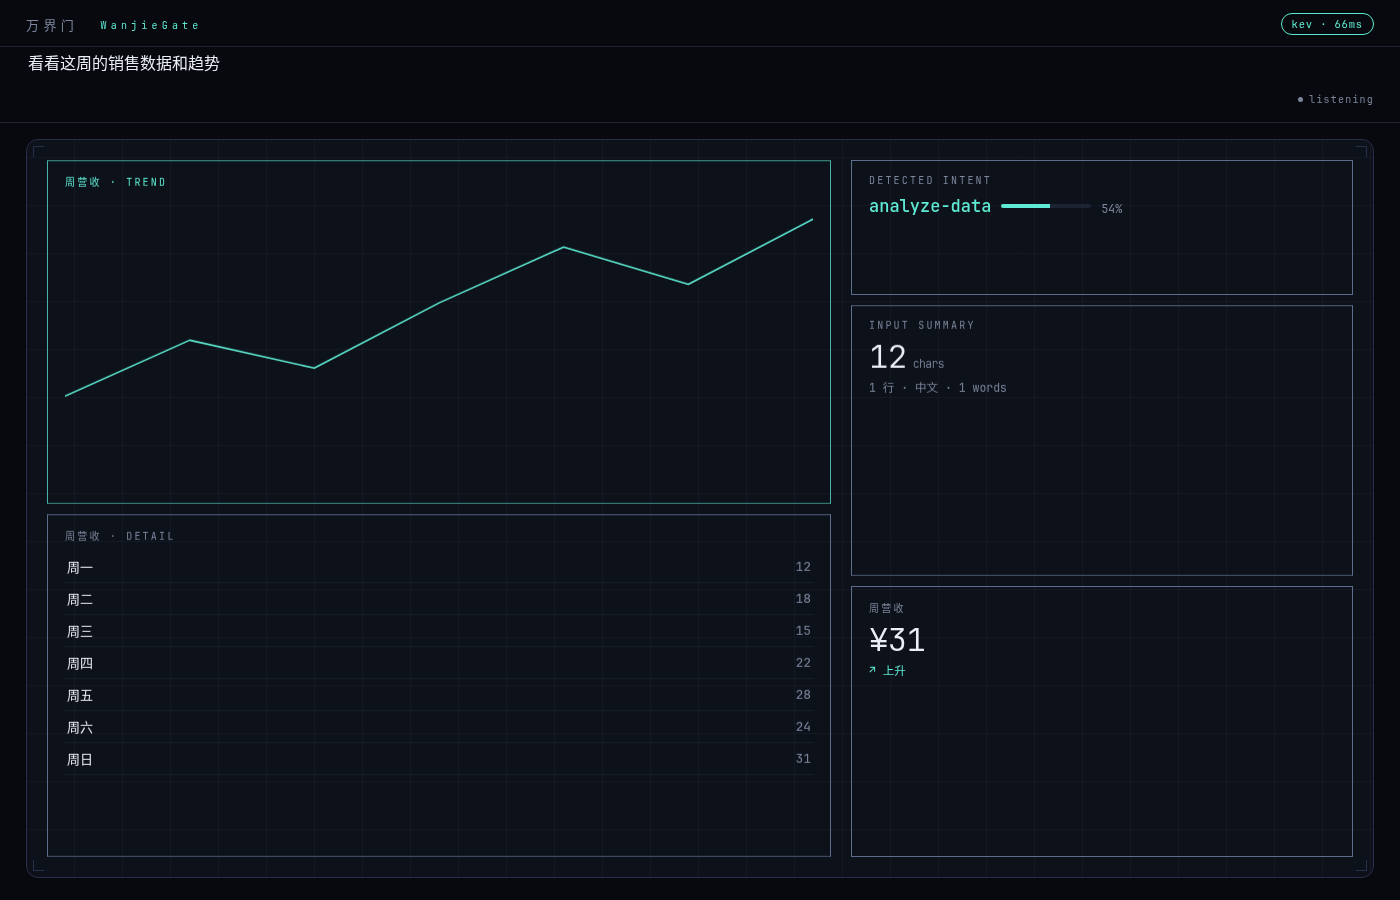
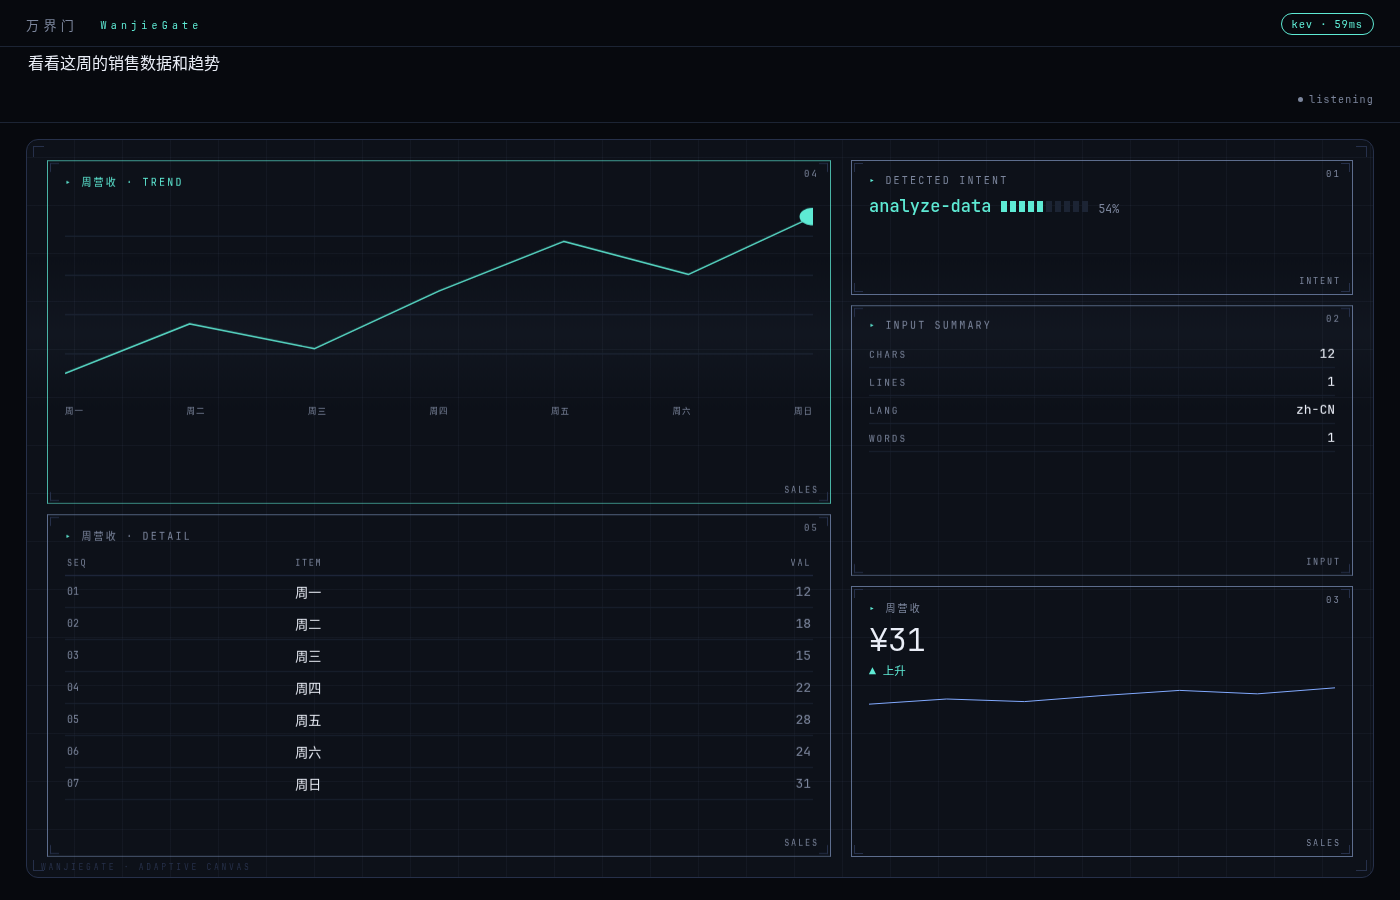
FUI 风格:角括号骨架 + 数据标签 + 组件细节密度
- chrome() 给每个区域注入四角 L 括号 + 序号(01-11) + 数据绑定标签
- chart 加坐标轴线/端点标记/x 轴标签;metric 加 sparkline;
  table 加 seq/item/val 表头;intent 置信度改 10 段计量条;
  summary 改 kv 明细行;banner 带 ALRT 时间戳;hero 两侧发丝线
- 舞台左下加 watermark,16s 慢速扫描亮带
- c-title 统一 ▸ 前缀

Generated with [Devin](https://devin.ai)

diff --git a/static/app.js b/static/app.js
@@ -242,9 +242,15 @@ function tick(now) {
   requestAnimationFrame(tick);
 }
 
-/* ---------- 卡片内容 ---------- */
+/* ---------- 卡片内容(FUI 骨架 + 数据细节) ---------- */
 function esc(s) { return s.replace(/[&<>"]/g, ch => ({"&": "&amp;", "<": "&lt;", ">": "&gt;", '"': "&quot;"}[ch])); }
 function ds(key) { return manifest.datasets[key] || manifest.datasets.sales; }
+
+function chrome(id, tag) {
+  const idx = String(Object.keys(manifest.components).indexOf(id) + 1).padStart(2, "0");
+  return `<i class="fc tl"></i><i class="fc tr"></i><i class="fc bl"></i><i class="fc br"></i>` +
+    `<div class="fui-idx">${idx}</div>` + (tag ? `<div class="fui-tag">${esc(tag)}</div>` : "");
+}
 
 function renderCard(id) {
   const c = cards.get(id); if (!c) return;
@@ -252,66 +258,84 @@ function renderCard(id) {
   const lines = t.split("\n").map(s => s.trim()).filter(Boolean);
   const first = lines[0] || "", lastLine = lines[lines.length - 1] || "";
   switch (id) {
-    case "intent-chip":
-      el.innerHTML = `<div class="c-title">detected intent</div>
+    case "intent-chip": {
+      const seg = Array.from({length: 10}, (_, i) =>
+        `<i class="${i < Math.round(intent.confidence * 10) ? "on" : ""}"></i>`).join("");
+      el.innerHTML = chrome(id, "intent") + `<div class="c-title">detected intent</div>
         <div class="chip"><span class="val">${esc(intent.choice || "—")}</span>
-        <span class="bar"><i style="width:${(intent.confidence * 100) | 0}%"></i></span>
+        <span class="segbar">${seg}</span>
         <span class="c-sub">${(intent.confidence * 100) | 0}%</span></div>`;
       break;
+    }
     case "summary-card": {
-      const zh = /[一-鿿]/.test(t);
-      el.innerHTML = `<div class="c-title">input summary</div>
-        <div class="c-big">${t.length}<span class="c-sub"> chars</span></div>
-        <div class="c-sub">${lines.length} 行 · ${zh ? "中文" : "latin"} · ${t.split(/\s+/).filter(Boolean).length} words</div>`;
+      const zh = /[一-鿿]/.test(t), words = t.split(/\s+/).filter(Boolean).length;
+      el.innerHTML = chrome(id, "input") + `<div class="c-title">input summary</div>
+        <div class="kv"><span>chars</span><b>${t.length}</b></div>
+        <div class="kv"><span>lines</span><b>${lines.length}</b></div>
+        <div class="kv"><span>lang</span><b>${zh ? "zh-CN" : "latin"}</b></div>
+        <div class="kv"><span>words</span><b>${words}</b></div>`;
       break;
     }
     case "metric-card": {
-      const d = ds(c.bound);
-      el.innerHTML = `<div class="c-title">${esc(d.title)}</div>
+      const d = ds(c.bound), s = d.series, mx = Math.max(...s), mn = Math.min(...s);
+      const sp = s.map((v, i) => `${(i / (s.length - 1)) * 100},${20 - ((v - mn) / (mx - mn || 1)) * 18}`).join(" ");
+      el.innerHTML = chrome(id, c.bound) + `<div class="c-title">${esc(d.title)}</div>
         <div class="c-big">${d.unit}${d.latest}</div>
-        <div class="c-sub trend-${d.trend}">${d.trend === "up" ? "↗ 上升" : "↘ 下降"}</div>`;
+        <div class="c-sub trend-${d.trend}">${d.trend === "up" ? "▲ 上升" : "▼ 下降"}</div>
+        <svg class="spark" viewBox="0 0 100 22" preserveAspectRatio="none">
+          <polyline points="${sp}" fill="none" stroke="var(--accent-2)" stroke-width="1" vector-effect="non-scaling-stroke"/></svg>`;
       break;
     }
     case "chart-card": {
       const d = ds(c.bound), s = d.series, max = Math.max(...s), min = Math.min(...s);
       const pts = s.map((v, i) => `${(i / (s.length - 1)) * 100},${36 - ((v - min) / (max - min || 1)) * 32}`).join(" ");
-      el.innerHTML = `<div class="c-title">${esc(d.title)} · trend</div>
-        <svg viewBox="0 0 100 40" preserveAspectRatio="none" style="width:100%;height:70%">
-          <polyline points="${pts}" fill="none" stroke="var(--accent)" stroke-width="1.6" stroke-linejoin="round" vector-effect="non-scaling-stroke"/></svg>`;
+      const grid = [8, 16, 24, 32].map(y => `<line x1="0" x2="100" y1="${y}" y2="${y}" stroke="#1b2332" stroke-width="0.3"/>`).join("");
+      const ly = 36 - ((s[s.length - 1] - min) / (max - min || 1)) * 32;
+      el.innerHTML = chrome(id, c.bound) + `<div class="c-title">${esc(d.title)} · trend</div>
+        <svg viewBox="0 0 100 40" preserveAspectRatio="none" class="chart">
+          ${grid}<polyline points="${pts}" fill="none" stroke="var(--accent)" stroke-width="1.4" stroke-linejoin="round" vector-effect="non-scaling-stroke"/>
+          <circle cx="100" cy="${ly}" r="1.8" fill="var(--accent)"/></svg>
+        <div class="fui-axis">${d.rows.map(r => `<span>${esc(String(r[0]))}</span>`).join("")}</div>`;
       break;
     }
     case "table-card": {
       const d = ds(c.bound);
-      el.innerHTML = `<div class="c-title">${esc(d.title)} · detail</div>
-        <table class="rows">${d.rows.map(r => `<tr><td>${esc(String(r[0]))}</td><td>${esc(String(r[1]))}</td></tr>`).join("")}</table>`;
+      el.innerHTML = chrome(id, c.bound) + `<div class="c-title">${esc(d.title)} · detail</div>
+        <table class="rows"><tr class="th"><td>seq</td><td>item</td><td>val</td></tr>
+        ${d.rows.map((r, i) => `<tr><td class="seq">${String(i + 1).padStart(2, "0")}</td><td>${esc(String(r[0]))}</td><td>${esc(String(r[1]))}</td></tr>`).join("")}</table>`;
       break;
     }
-    case "alert-banner":
+    case "alert-banner": {
       el.classList.add("banner");
-      el.innerHTML = `<span class="dot"></span><div>${esc(first || "需要关注")}</div>`;
+      const ts = new Date().toLocaleTimeString("en-GB");
+      el.innerHTML = `<i class="fc tl"></i><i class="fc tr"></i><i class="fc bl"></i><i class="fc br"></i>
+        <span class="dot"></span><div class="btxt">${esc(first || "需要关注")}</div><div class="fui-tag">alrt · ${ts}</div>`;
       break;
+    }
     case "action-bar": {
       const acts = {"analyze-data": ["导出报表", "下钻明细"], "report-issue": ["创建工单", "通知值班"], "plan-work": ["生成看板", "排期"], "write-document": ["润色", "归档"], "monitor-status": ["全屏监控", "设告警"], "explore": ["继续"]}[intent.choice] || ["继续"];
-      el.innerHTML = `<div class="actions">${acts.map((a, i) => `<button class="btn${i === 0 ? " primary" : ""}">${a}</button>`).join("")}<button class="btn">更多…</button></div>`;
+      el.innerHTML = chrome(id, "exec") + `<div class="actions"><span class="fui-lbl">exec</span>${acts.map((a, i) => `<button class="btn${i === 0 ? " primary" : ""}">${a}</button>`).join("")}<button class="btn">更多…</button></div>`;
       break;
     }
     case "timeline-card": {
       const steps = lines.filter(l => /^[-*\d•·]/.test(l)).map(l => l.replace(/^[-*\d•·.\s]+/, ""));
       const show = steps.length ? steps : ["起草", "细化", "评审", "发布"];
-      el.innerHTML = `<div class="c-title">timeline</div><div class="tl">${show.slice(0, 6).map(s => `<div class="step"><i></i><span>${esc(s)}</span></div>`).join("")}</div>`;
+      el.innerHTML = chrome(id, "seq") + `<div class="c-title">timeline</div><div class="tl">${show.slice(0, 6).map((s, i) => `<div class="step"><em>${String(i + 1).padStart(2, "0")}</em><i></i><span>${esc(s)}</span></div>`).join("")}</div>`;
       break;
     }
     case "note-card":
-      el.innerHTML = `<div class="c-title">note</div><div class="note">${esc(lastLine || first || "…")}</div>`;
+      el.innerHTML = chrome(id, "note") + `<div class="c-title">note</div><div class="note">${esc(lastLine || first || "…")}</div>`;
       break;
     case "hero-stat": {
       const d = ds(c.bound);
-      el.innerHTML = `<div class="c-title">${esc(d.title)}</div><div class="hero-num">${d.unit}${d.latest}</div>`;
+      el.innerHTML = chrome(id, c.bound) + `<div class="c-title">${esc(d.title)}</div>
+        <div class="hero-wrap"><i class="hl"></i><div class="hero-num">${d.unit}${d.latest}</div><i class="hl"></i></div>`;
       break;
     }
     case "progress-card": {
       const d = manifest.datasets.tasks, done = d.rows.filter(r => r[1] === "完成").length, pc = Math.round(done / d.rows.length * 100);
-      el.innerHTML = `<div class="c-title">progress</div><div class="c-sub">${done}/${d.rows.length} 完成</div><div class="prog"><i style="width:${pc}%"></i></div>`;
+      el.innerHTML = chrome(id, "tasks") + `<div class="c-title">progress</div><div class="c-big">${pc}<span class="c-sub">%</span></div>
+        <div class="c-sub">${done}/${d.rows.length} 完成</div><div class="prog"><i style="width:${pc}%"></i></div>`;
       break;
     }
   }

diff --git a/static/styles.css b/static/styles.css
@@ -73,6 +73,26 @@ header {
 #stage .reg.br { bottom: 6px; right: 6px; border-left: none; border-top: none; }
 #app.idle #stage { opacity: 0; pointer-events: none; }
 
+/* ---------- FUI 骨架:角括号 / 序号 / 数据标签,随线速出现 ---------- */
+.card > .fc, .card > .fui-idx, .card > .fui-tag { opacity: 1; }
+.fc { position: absolute; width: 9px; height: 9px; border: 1px solid var(--hair); }
+.fc.tl { top: 3px; left: 3px; border-right: 0; border-bottom: 0; }
+.fc.tr { top: 3px; right: 3px; border-left: 0; border-bottom: 0; }
+.fc.bl { bottom: 3px; left: 3px; border-right: 0; border-top: 0; }
+.fc.br { bottom: 3px; right: 3px; border-left: 0; border-top: 0; }
+.fui-idx { position: absolute; top: 8px; right: 12px; font-size: 9px; letter-spacing: .24em; color: var(--dim); }
+.fui-tag { position: absolute; bottom: 8px; right: 12px; font-size: 8.5px; letter-spacing: .22em; color: var(--dim); text-transform: uppercase; }
+.fui-lbl { font-size: 9px; letter-spacing: .24em; color: var(--dim); text-transform: uppercase; margin-right: 10px; }
+.fui-axis { display: flex; justify-content: space-between; font-size: 8.5px; letter-spacing: .12em; color: var(--dim); margin-top: 6px; }
+
+/* 慢速扫描亮带,FUI 的"活" */
+.scan { position: absolute; left: 0; right: 0; top: -22%; height: 22%; z-index: 0;
+  background: linear-gradient(180deg, transparent, rgba(140,160,210,.04), transparent);
+  animation: scan 16s linear infinite; pointer-events: none; }
+@keyframes scan { to { transform: translateY(600%); } }
+#stage::after { content: "wanjiegate · adaptive canvas"; position: absolute; bottom: 5px; left: 14px;
+  font-size: 8px; letter-spacing: .34em; color: var(--hair); text-transform: uppercase; pointer-events: none; }
+
 /* ---------- 区域:没有底色,边界线由 JS 按 materialize 逐帧拉出 ---------- */
 .card {
   position: absolute; left: 0; top: 0;
@@ -91,6 +111,22 @@ header {
 .card.emph .c-title { color: var(--accent); }
 
 .card .c-title { font-size: 10px; letter-spacing: .22em; text-transform: uppercase; color: var(--dim); margin-bottom: 8px; }
+.card .c-title::before { content: "▸ "; color: var(--accent); }
+
+.segbar { display: inline-flex; gap: 3px; align-items: center; }
+.segbar i { width: 6px; height: 11px; background: var(--line); }
+.segbar i.on { background: var(--accent); }
+.kv { display: flex; justify-content: space-between; align-items: baseline; font-size: 13px; padding: 5px 0; border-bottom: 1px solid var(--line); }
+.kv span { color: var(--dim); font-size: 9.5px; letter-spacing: .2em; text-transform: uppercase; }
+.kv b { font-weight: 400; }
+.spark { width: 100%; height: 20px; margin-top: 8px; }
+.chart { width: 100%; height: 62%; }
+.rows .th td { font-size: 8.5px; letter-spacing: .2em; text-transform: uppercase; color: var(--dim); border-bottom: 1px solid var(--hair); }
+.rows td.seq { color: var(--dim); font-size: 10px; }
+.tl .step em { font-style: normal; font-size: 9px; color: var(--dim); letter-spacing: .1em; min-width: 16px; }
+.hero-wrap { display: flex; align-items: center; gap: 22px; width: 100%; }
+.hero-wrap .hl { flex: 1; height: 1px; background: var(--hair); }
+.btxt { flex: 1; }
 .card .c-big { font-size: clamp(26px, 3.6vh, 42px); font-weight: 300; line-height: 1.05; letter-spacing: -.02em; }
 .card .c-sub { font-size: 11.5px; color: var(--dim); margin-top: 5px; }
 .card .trend-up { color: var(--accent); }

diff --git a/static/index.html b/static/index.html
@@ -22,6 +22,7 @@
 
   <section id="stage" aria-live="polite">
     <i class="reg tl"></i><i class="reg tr"></i><i class="reg bl"></i><i class="reg br"></i>
+    <div class="scan"></div>
   </section>
 
   <aside id="debug" class="hidden"></aside>
